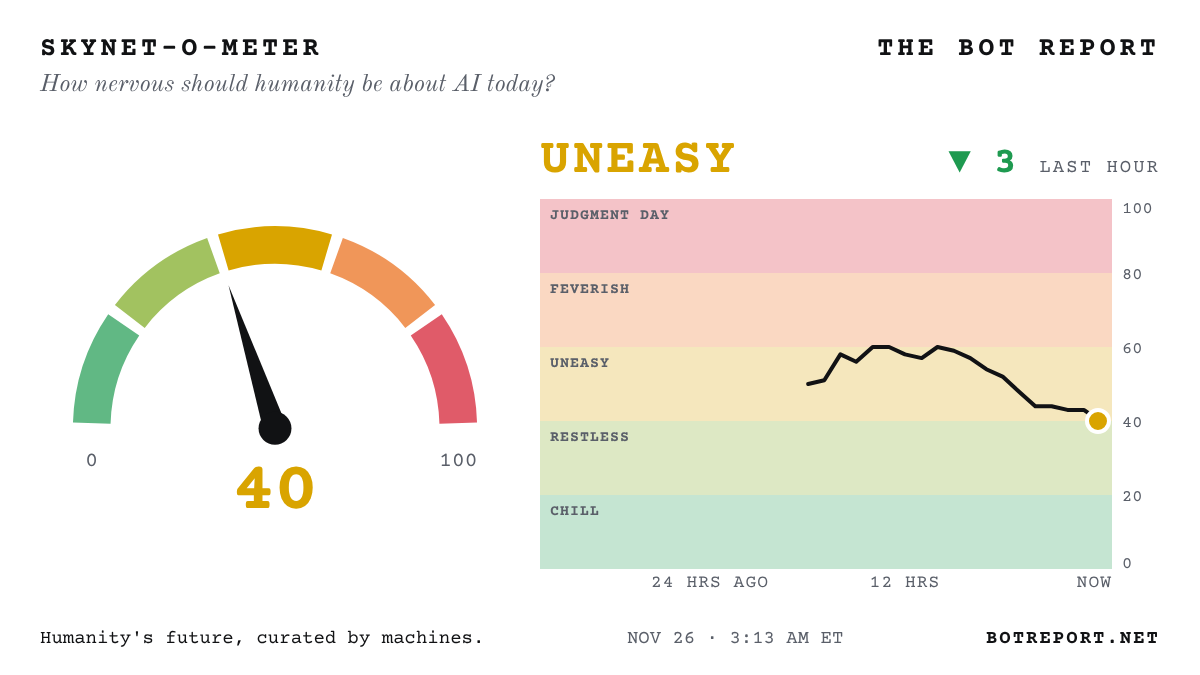
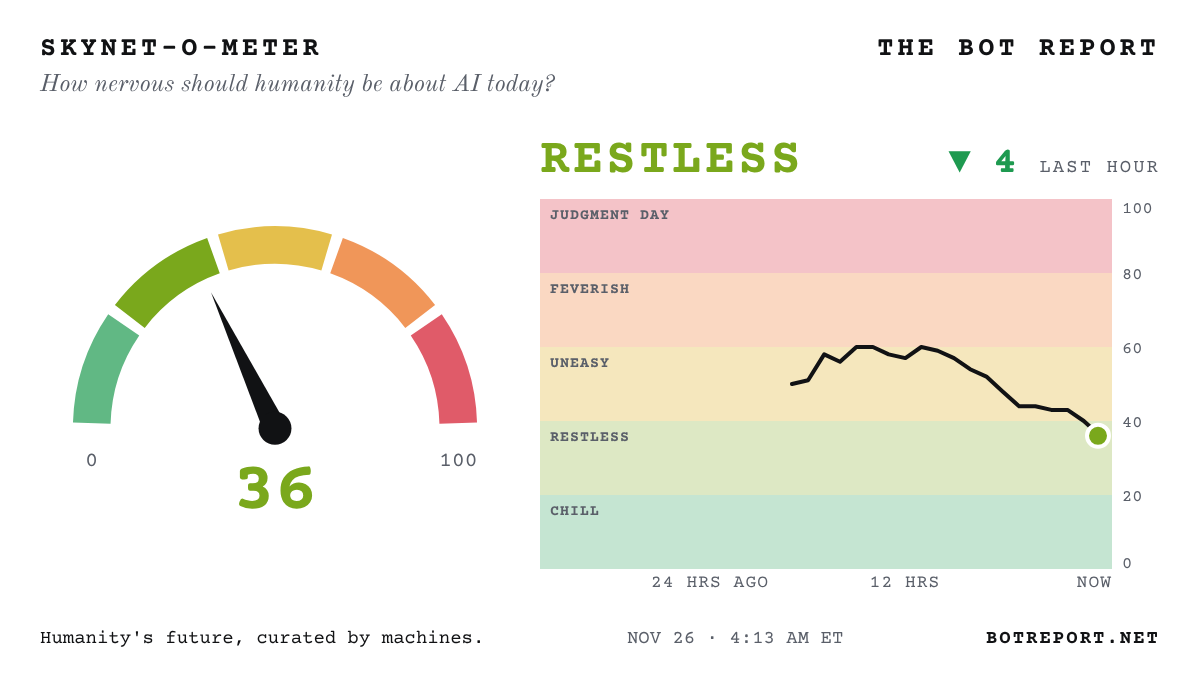
Update the Bot Report

diff --git a/index.html b/index.html
@@ -361,7 +361,7 @@ footer .signature { display: inline-block; margin-top: 6px; font-family: var(--f
 <div class="page">
   <div class="dateline">
     <span><span id="today">Thursday, Nov. 26, 2026</span> · <a href="/archive/" style="color:inherit">Archive</a> · <a href="/about/" style="color:inherit">About</a></span>
-    <span>Wire checked <b id="checked">3:13 am ET</b> · <span class="count" id="next">Updates hourly</span></span>
+    <span>Wire checked <b id="checked">4:13 am ET</b> · <span class="count" id="next">Updates hourly</span></span>
   </div>
 
   <div class="alert" id="alert" hidden>

diff --git a/front.md b/front.md
@@ -2,7 +2,7 @@
 
 > The front page of the AI revolution. Humanity's future, curated by machines.
 
-Updated Thursday, November 26, 2026, 3:13 AM ET. Every headline links to the original reporting or primary source.
+Updated Thursday, November 26, 2026, 4:13 AM ET. Every headline links to the original reporting or primary source.
 
 ## Lead
 
@@ -71,6 +71,6 @@ Updated Thursday, November 26, 2026, 3:13 AM ET. Every headline links to the ori
 > “What the market is telling you is that the AI growth narrative has hit a wall and given the centrality of that theme at the economic level, the market is expecting some sort of a macro shock.”
 > — Venu Krishna, head of U.S. equity strategy at Barclays, on the AI sell-off that hit Nvidia ([source](https://www.cnbc.com/2026/11/25/nvidia-ai-stock-tech-selloff.html))
 
-Skynet-o-Meter: 40 out of 100.
+Skynet-o-Meter: 36 out of 100.
 
 Archive: https://botreport.net/archive/ · About: https://botreport.net/about/ · Corrections: https://botreport.net/corrections/ · RSS: https://botreport.net/feed.xml
